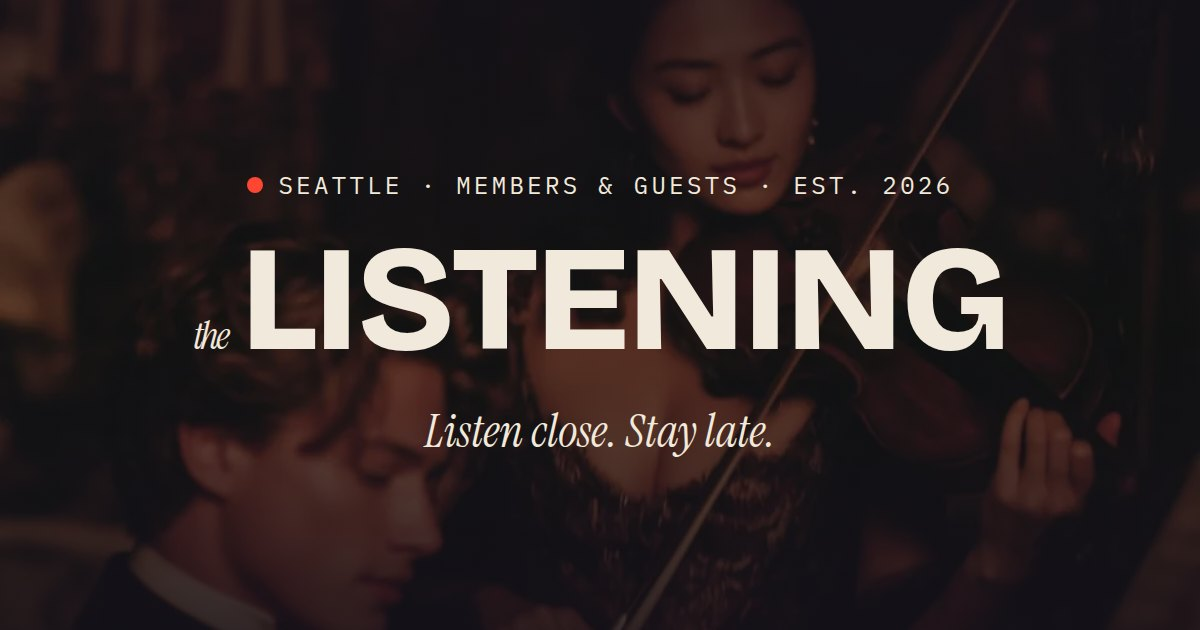
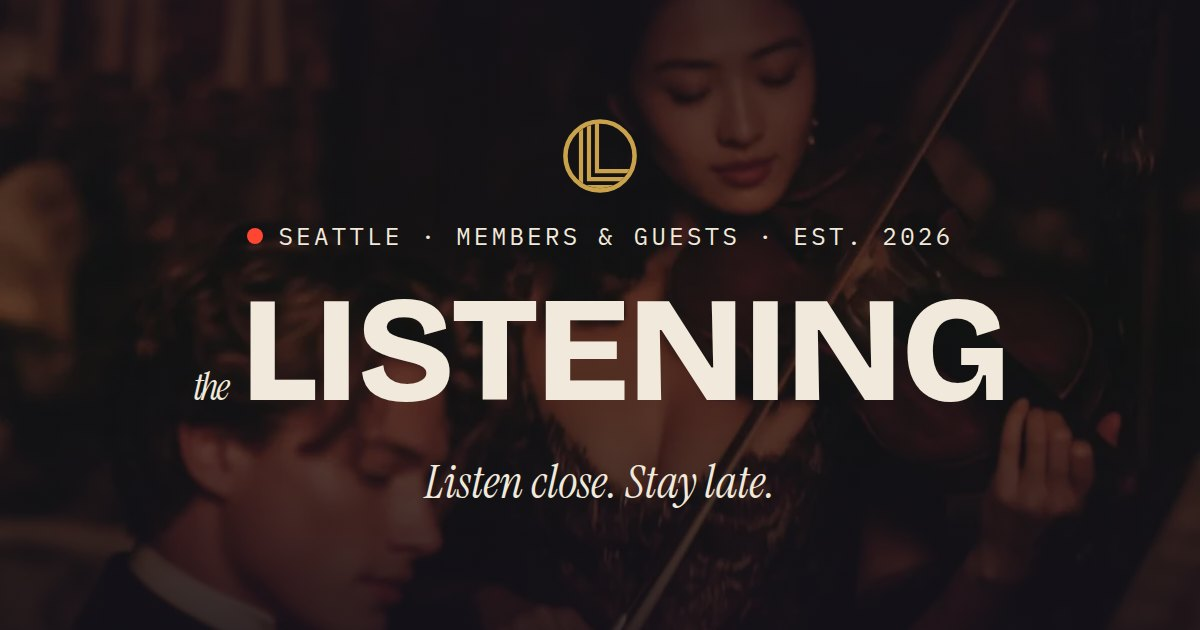
Creative-director pass two: hero clustering, brand close, OG sync
- Hero stack regrouped from an even ladder into three clusters:
  identity (kicker, wordmark, tagline tight), pitch (one-liner and
  manifesto as one thought), then 48px of air before the CTA;
  manifesto tracking eased to 0.12em
- The page now closes on the gold monogram instead of the red dot:
  the mark ends the footer at 38px over the empty room, and the Dot
  keeps its live-signal duty in the kicker
- OG share card regenerated with the monogram above the kicker so
  link previews carry the logo and the gold system

Claude-Session: https://claude.ai/code/session_01FrziaHuQYwVPNKSifqY91X

diff --git a/index.html b/index.html
@@ -254,7 +254,17 @@
       <p class="evidence">THE LISTENING CO. · SEATTLE</p>
       <p class="evidence">HOSTED BY CHO</p>
       <p class="evidence">EST. 2026</p>
-      <span class="dot dot--still" aria-hidden="true"></span>
+      <span class="logo-mark footer-mark" aria-hidden="true">
+        <svg viewBox="0 0 100 100" fill="none" stroke="currentColor">
+          <circle cx="50" cy="50" r="45.5" stroke-width="6"/>
+          <g clip-path="url(#logoclip-footer)" stroke-width="5.5">
+            <path d="M46 0V70H104"/>
+            <path d="M35.5 0V80.5H104"/>
+            <path d="M25 0V91H104"/>
+          </g>
+          <defs><clipPath id="logoclip-footer"><circle cx="50" cy="50" r="42.5"/></clipPath></defs>
+        </svg>
+      </span>
     </div>
   </footer>
 

diff --git a/styles.css b/styles.css
@@ -356,17 +356,18 @@ a {
 }
 
 .tagline {
-  margin-top: 20px;
+  margin-top: 14px;
 }
 
 .hero-line {
-  margin-top: 24px;
+  margin-top: 32px;
   max-width: 46ch;
 }
 
 .hero-manifesto {
-  margin-top: 22px;
+  margin-top: 14px;
   max-width: none;
+  letter-spacing: 0.12em;
   color: var(--candlewax);
 }
 
@@ -378,7 +379,7 @@ a {
 }
 
 .hero-cta {
-  margin-top: 36px;
+  margin-top: 48px;
 }
 
 /* The page's one filled element */
@@ -812,8 +813,10 @@ footer p + p {
   margin-top: 10px;
 }
 
-footer .dot {
-  margin: 40px 0 0;
+footer .footer-mark {
+  width: 38px;
+  height: 38px;
+  margin: 44px 0 0;
 }
 
 /* ---------- Motion ---------- */
